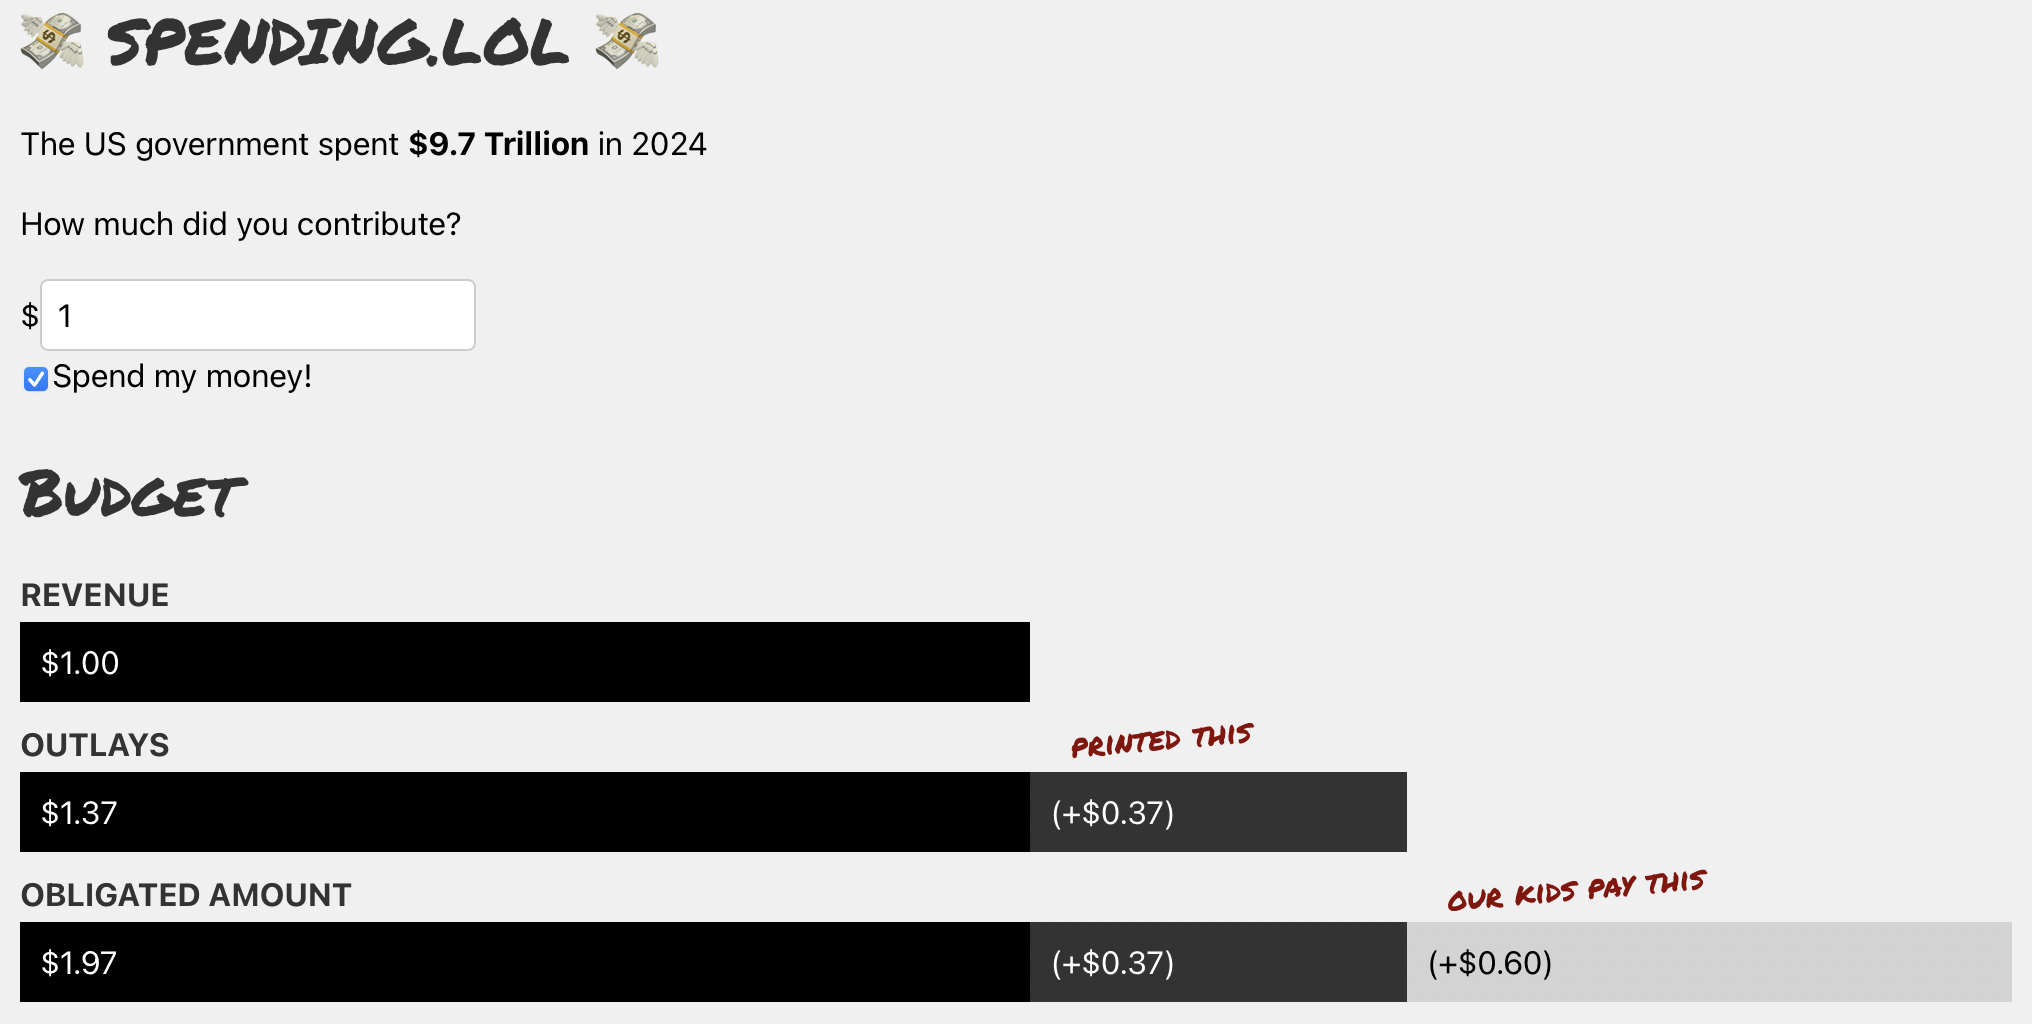
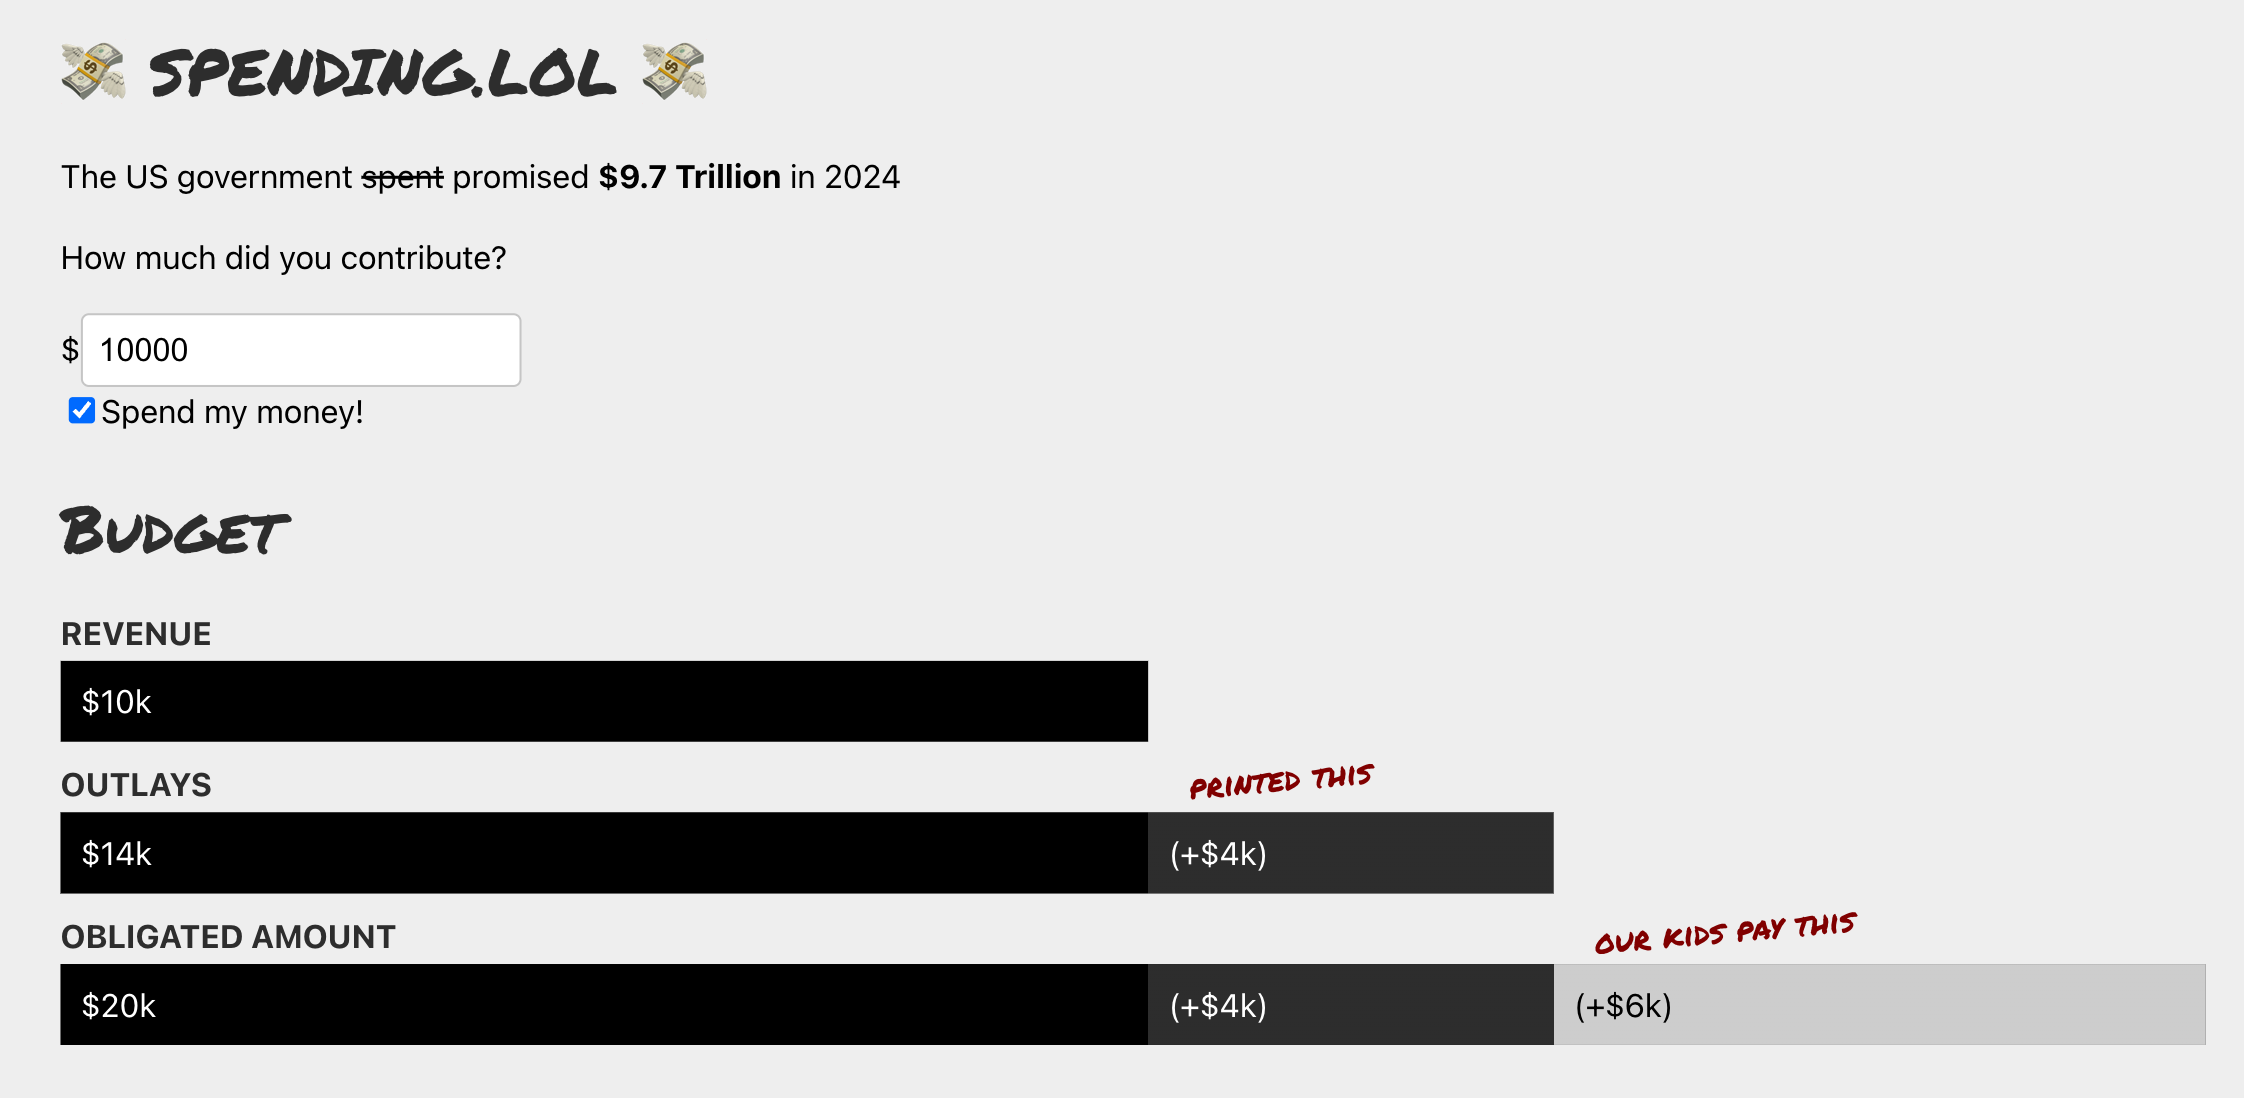
better screenshot

diff --git a/src/routes/__root.tsx b/src/routes/__root.tsx
@@ -54,7 +54,7 @@ export type SearchParams = z.infer<typeof searchSchema>
 const Footer = () => {
     return (
         <footer>
-            <hr />
+            <hr style={{ border: '1px solid #ddd', margin: '1rem 0' }} />
             <a href="https://x.com/futurepaul">Blame @futurepaul</a>&nbsp;|&nbsp;
             <a href="https://www.usaspending.gov">Data from USASpending.gov</a>&nbsp;|&nbsp;
             <a href="https://github.com/jason-m-smith/spending.lol">Fix this on GitHub</a>&nbsp;|&nbsp;

diff --git a/src/Header.tsx b/src/Header.tsx
@@ -26,7 +26,7 @@ export const Header: React.FC = () => {
       </Link>
       
       <p>
-        The US government spent <strong>{formatDisplayAmount(fy2024Data.total)}</strong> in 2024
+        The US government <s>spent</s> promised <strong>{formatDisplayAmount(fy2024Data.total)}</strong> in 2024
       </p>
 
       <div>
